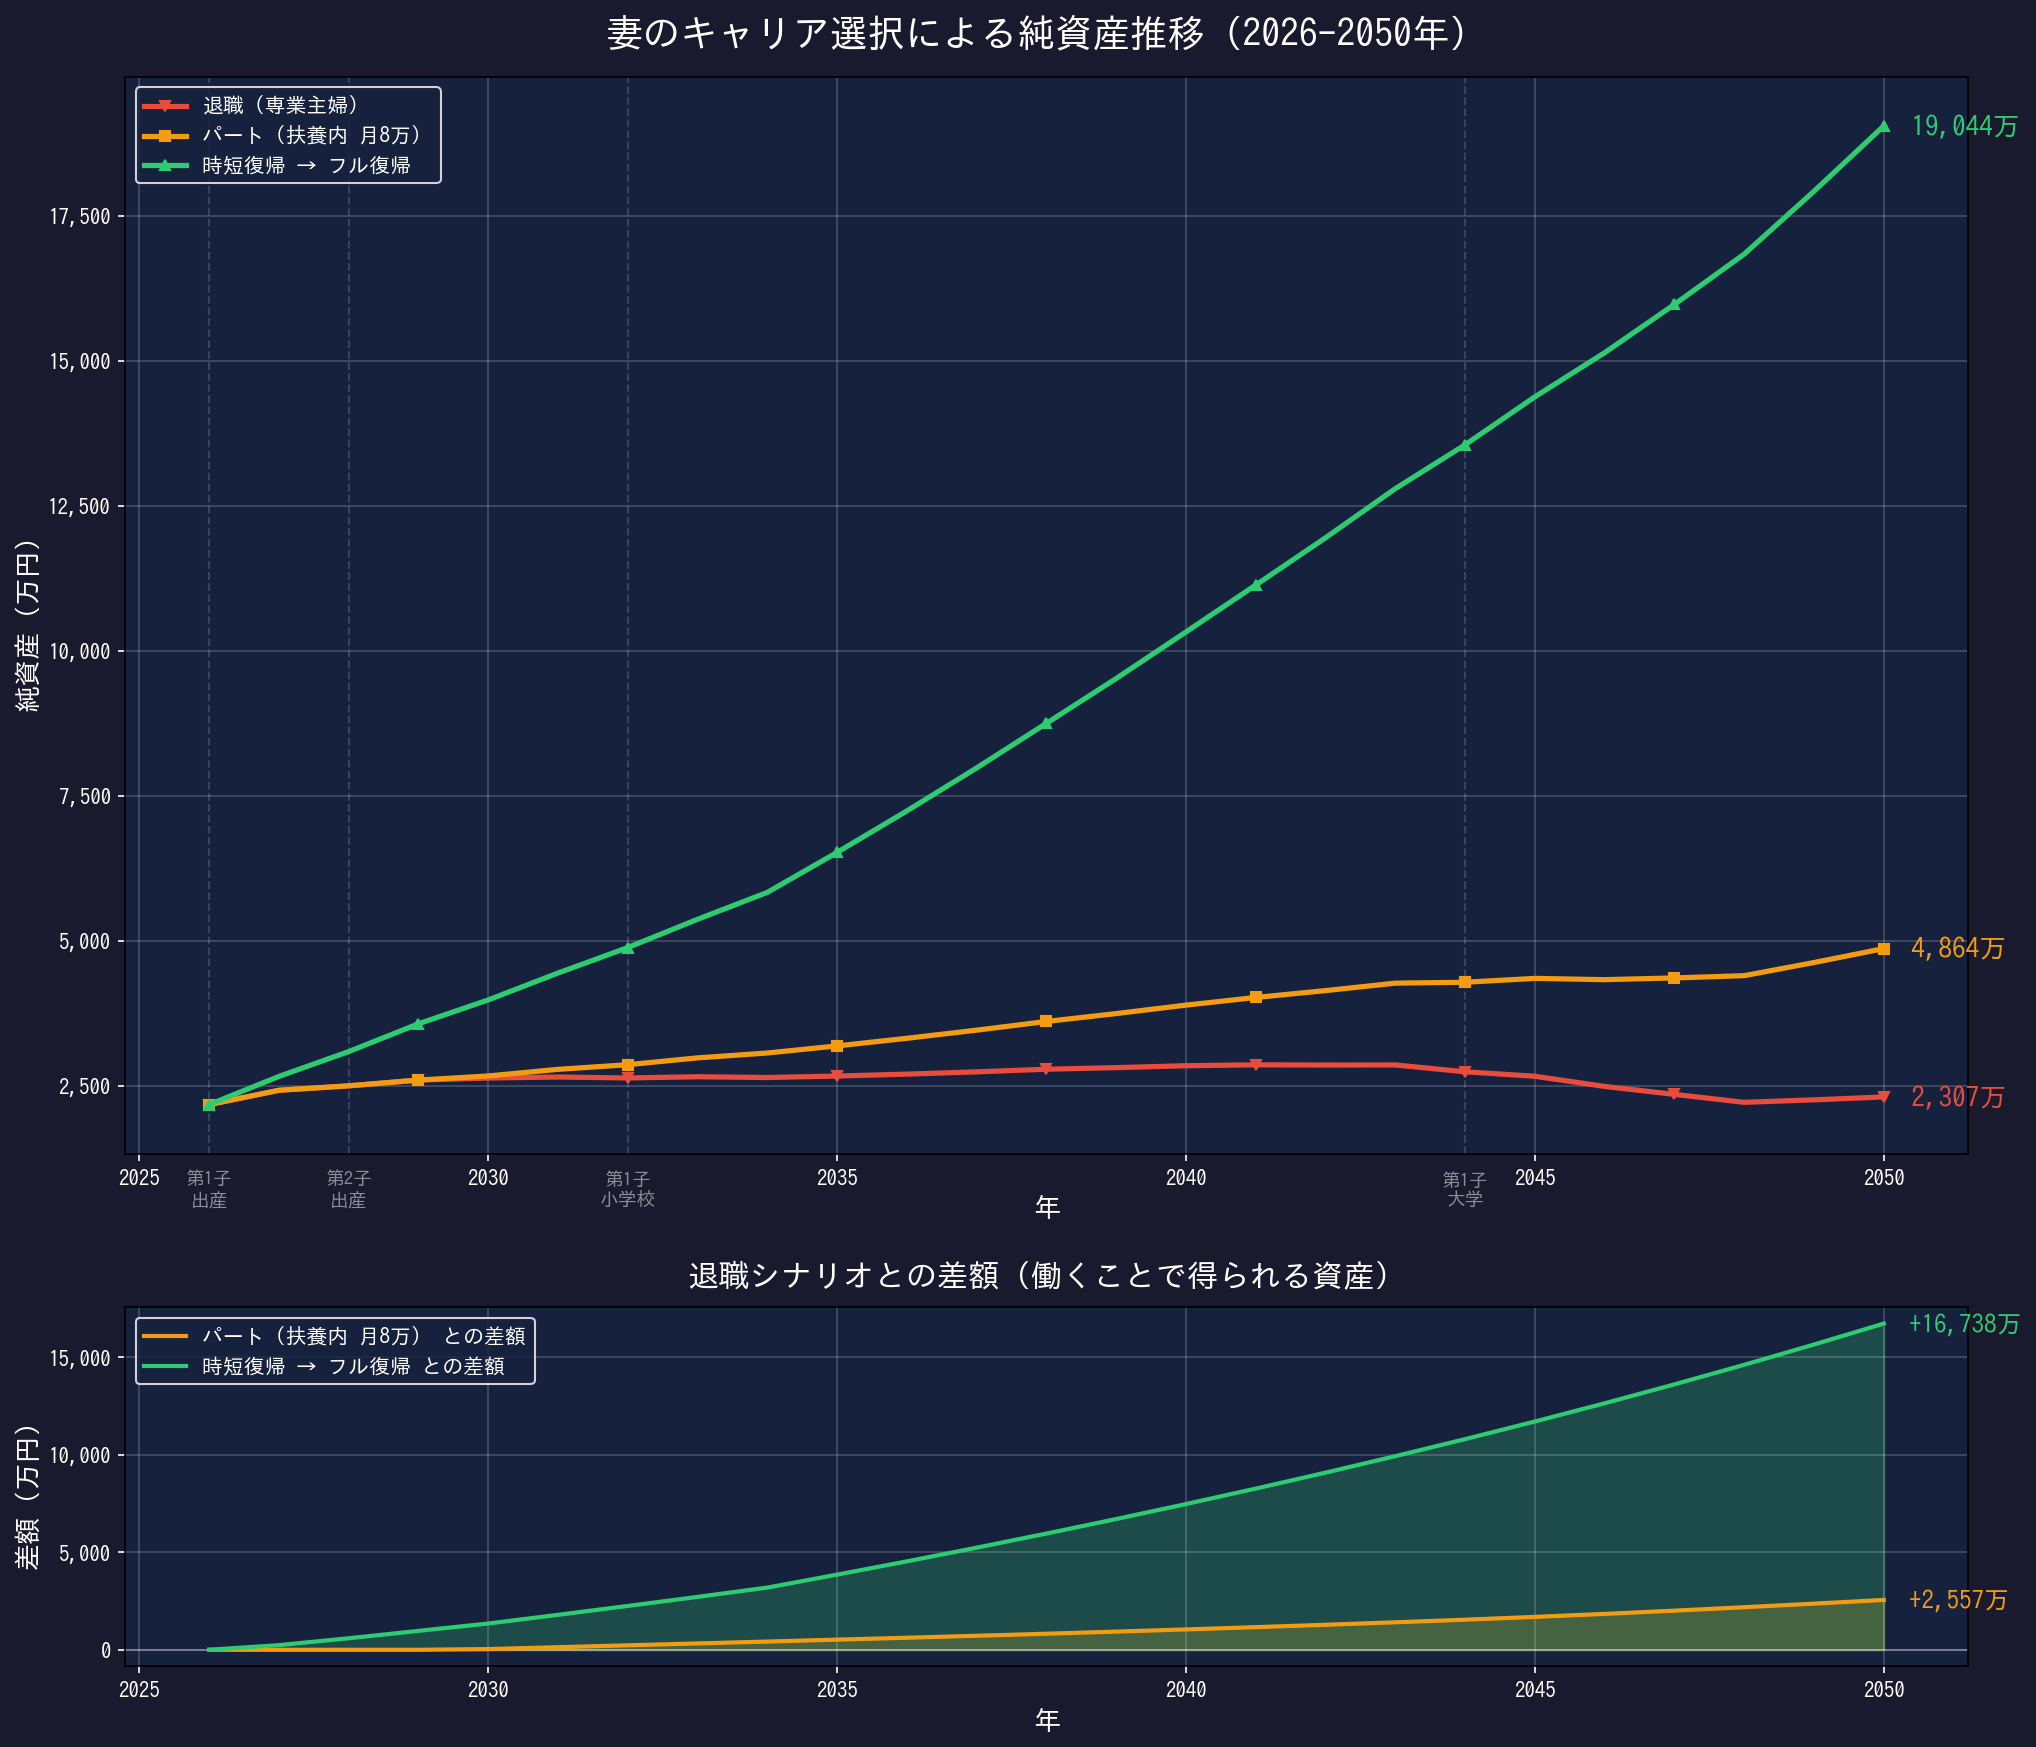
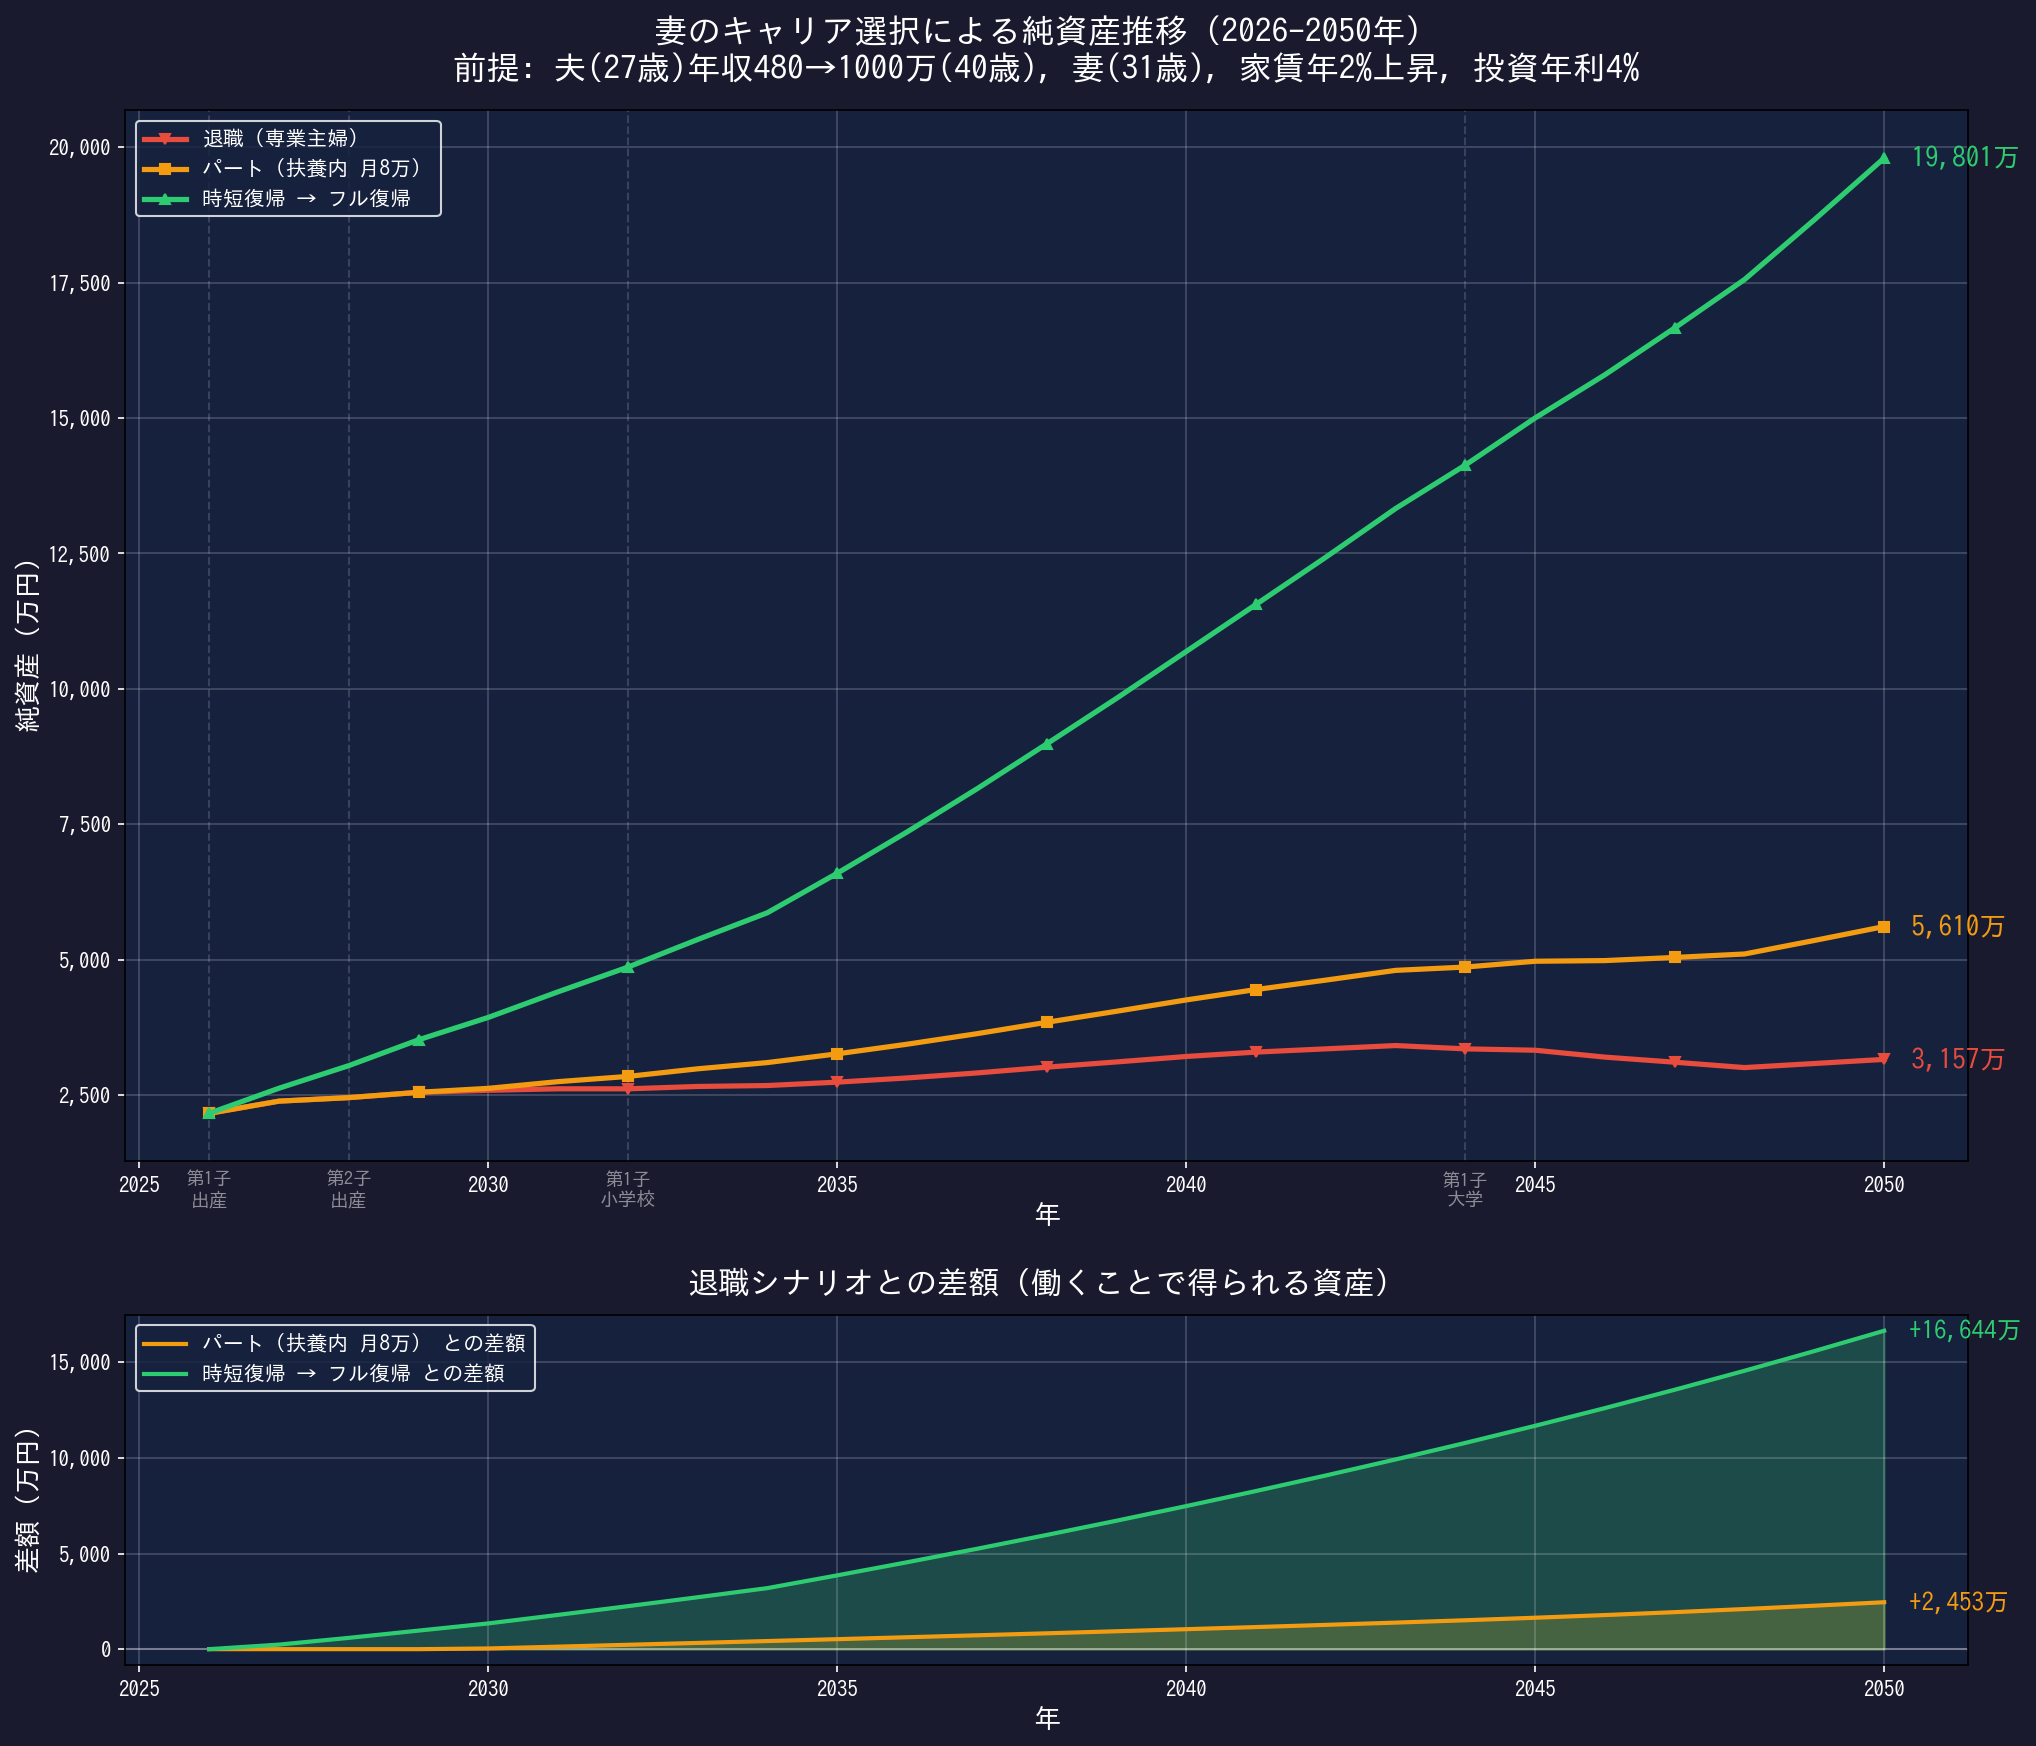
update: 夫の年収1000万到達(40歳)と家賃年2%上昇を反映
- 夫(27歳): 年収480万→1000万(40歳)の昇給カーブをモデル化
- 額面→手取りの累進課税を簡易モデルで計算
- 家賃: 年2%値上がりを全シナリオに適用
- 妻(31歳)の年齢もサブタイトルに表記

https://claude.ai/code/session_0187VtEpZUYEfo66gWML4qiG

diff --git a/chart.py b/chart.py
@@ -1,4 +1,7 @@
-"""退職 / パート / 時短復帰 の3シナリオ資産推移グラフ"""
+"""退職 / パート / 時短復帰 の3シナリオ資産推移グラフ
+
+v2: 夫の年収1000万到達(40歳) + 家賃値上がり反映
+"""
 
 import matplotlib
 matplotlib.use("Agg")
@@ -12,20 +15,30 @@ JP_FONT = FontProperties(fname="/usr/share/fonts/opentype/ipafont-gothic/ipag.tt
 # ============================================================
 # 定数
 # ============================================================
-HUSBAND_MONTHLY = 35.0
-WIFE_MONTHLY = 40.0
-HUSBAND_GROSS = 48.0
-WIFE_GROSS = 55.0
-HUSBAND_BONUS = 80.0
-WIFE_BONUS = 100.0
+
+# --- 夫の収入モデル ---
+# 現在28歳(2026), 年収480万+残業代 → 額面約580万, 手取り約500万
+# 40歳(2038)で年収1000万到達 → 手取り約730万
+# 以降は年1.5%昇給
+HUSBAND_AGE_2026 = 27
+HUSBAND_GROSS_ANNUAL_2026 = 580.0    # 万円（額面）
+HUSBAND_GROSS_ANNUAL_TARGET = 1000.0  # 40歳到達
+HUSBAND_TARGET_AGE = 40
+HUSBAND_GROSS_MONTHLY_2026 = 48.0     # 育休給付金計算用
+
+WIFE_MONTHLY = 40.0       # 手取り月額
+WIFE_GROSS = 55.0         # 額面月額
+WIFE_BONUS = 100.0        # ボーナス年額（手取り）
 
 IKUKYU_67 = WIFE_GROSS * 0.67
 IKUKYU_50 = WIFE_GROSS * 0.50
 MATERNITY = WIFE_GROSS * 0.67
 
-CURRENT_MONTHLY_EXPENSE = 33.0
-RENT = 16.0
-RENT_BIG = 22.0
+# --- 支出 ---
+CURRENT_MONTHLY_EXPENSE = 33.0  # 共同23万 + 個人10万
+RENT_BASE_2026 = 16.0           # 家賃（2026年時点）
+RENT_BIG_PREMIUM = 6.0          # 広い部屋への差額（ベース）
+RENT_INFLATION = 0.02           # 家賃年2%値上がり
 
 CHILD_COSTS = {
     (0, 2): 3.0, (3, 5): 5.0, (6, 12): 6.0,
@@ -38,7 +51,7 @@ INITIAL_CASH = 232.0
 INV_RETURN = 0.04
 NISA_MAX = 30.0 * 12
 INFLATION = 0.01
-SALARY_GROWTH = 0.015
+SALARY_GROWTH_AFTER_TARGET = 0.015  # 1000万到達後の昇給率
 
 YEARS = list(range(2026, 2051))
 
@@ -63,6 +76,44 @@ def special_costs(c1_age, c2_age):
     return s
 
 
+def husband_take_home(year):
+    """夫の年間手取り収入（万円）を返す"""
+    age = HUSBAND_AGE_2026 + (year - 2026)
+    years_to_target = HUSBAND_TARGET_AGE - HUSBAND_AGE_2026  # 12年
+
+    if age <= HUSBAND_TARGET_AGE:
+        # 28→40歳: 580万→1000万へ線形成長（額面）
+        progress = (age - HUSBAND_AGE_2026) / years_to_target
+        gross = HUSBAND_GROSS_ANNUAL_2026 + (HUSBAND_GROSS_ANNUAL_TARGET - HUSBAND_GROSS_ANNUAL_2026) * progress
+    else:
+        # 40歳以降: 1000万ベースに年1.5%昇給
+        years_after = age - HUSBAND_TARGET_AGE
+        gross = HUSBAND_GROSS_ANNUAL_TARGET * (1 + SALARY_GROWTH_AFTER_TARGET) ** years_after
+
+    # 額面→手取り変換（累進課税 + 社会保険を簡易モデル化）
+    if gross <= 600:
+        take_home_rate = 0.80
+    elif gross <= 800:
+        take_home_rate = 0.80 - (gross - 600) / 200 * 0.05  # 80%→75%
+    elif gross <= 1000:
+        take_home_rate = 0.75 - (gross - 800) / 200 * 0.03  # 75%→72%
+    elif gross <= 1200:
+        take_home_rate = 0.72 - (gross - 1000) / 200 * 0.03  # 72%→69%
+    else:
+        take_home_rate = 0.69
+
+    return gross * take_home_rate
+
+
+def rent_for_year(year, c1_age):
+    """家賃（月額万円）: 年2%値上がり + 広い部屋への引越"""
+    i = year - 2026
+    base_rent = RENT_BASE_2026 * (1 + RENT_INFLATION) ** i
+    if c1_age >= 4:
+        base_rent += RENT_BIG_PREMIUM * (1 + RENT_INFLATION) ** i
+    return base_rent
+
+
 def simulate(wife_plan):
     """年ごとの純資産リストを返す"""
     inv = INITIAL_INV
@@ -71,17 +122,19 @@ def simulate(wife_plan):
 
     for i, year in enumerate(YEARS):
         # --- 夫収入 ---
-        h_m = HUSBAND_MONTHLY * (1 + SALARY_GROWTH) ** i
-        h_b = HUSBAND_BONUS * (1 + SALARY_GROWTH) ** i
+        h_income = husband_take_home(year)
         if year == 2026:
-            h_income = h_m * 7 + HUSBAND_GROSS * 0.67 * 5 + h_b * 0.5
-        else:
-            h_income = h_m * 12 + h_b
+            # 1-7月:通常, 8-12月:育休
+            normal_ratio = 7 / 12
+            ikukyu_ratio = 5 / 12
+            h_income = (h_income * normal_ratio +
+                       HUSBAND_GROSS_MONTHLY_2026 * 0.67 * 5 +  # 育休給付(5ヶ月)
+                       0)  # ボーナス減額分は normal_ratio で反映
 
         # --- 妻収入 ---
         w_monthly = wife_plan.get(year, 0)
         w_income = w_monthly * 12
-        w_b = WIFE_BONUS * (1 + SALARY_GROWTH) ** i
+        w_b = WIFE_BONUS * (1 + SALARY_GROWTH_AFTER_TARGET) ** i
         if w_monthly >= WIFE_MONTHLY * 0.9:
             w_income += w_b
         elif w_monthly >= WIFE_MONTHLY * 0.7:
@@ -90,7 +143,7 @@ def simulate(wife_plan):
         total_income = h_income + w_income
 
         # --- 支出 ---
-        base = CURRENT_MONTHLY_EXPENSE * (1 + INFLATION) ** i
+        base = (CURRENT_MONTHLY_EXPENSE - RENT_BASE_2026) * (1 + INFLATION) ** i  # 家賃以外
         c1_age = year - 2026
         c2_age = year - 2028
         cc = child_cost(c1_age) + child_cost(c2_age)
@@ -98,8 +151,8 @@ def simulate(wife_plan):
         if w_monthly > 0:
             if 0 <= c1_age <= 2: nursery += NURSERY_0_2
             if 0 <= c2_age <= 2: nursery += NURSERY_0_2
-        rent = RENT_BIG if c1_age >= 4 else RENT
-        monthly_exp = base - RENT + rent + cc + nursery
+        rent = rent_for_year(year, c1_age)
+        monthly_exp = base + rent + cc + nursery
         yearly_exp = monthly_exp * 12 + special_costs(c1_age, c2_age)
 
         # --- 収支 ---
@@ -202,8 +255,9 @@ def main():
                      fontproperties=JP_FONT, fontsize=13, fontweight="bold",
                      color=colors[name], va="center")
 
-    ax1.set_title("妻のキャリア選択による純資産推移（2026-2050年）",
-                  fontproperties=JP_FONT, fontsize=18, fontweight="bold",
+    ax1.set_title("妻のキャリア選択による純資産推移（2026-2050年）\n"
+                  "前提: 夫(27歳)年収480→1000万(40歳), 妻(31歳), 家賃年2%上昇, 投資年利4%",
+                  fontproperties=JP_FONT, fontsize=16, fontweight="bold",
                   color="white", pad=15)
     ax1.set_ylabel("純資産（万円）", fontproperties=JP_FONT, fontsize=13, color="white")
     ax1.set_xlabel("年", fontproperties=JP_FONT, fontsize=13, color="white")
